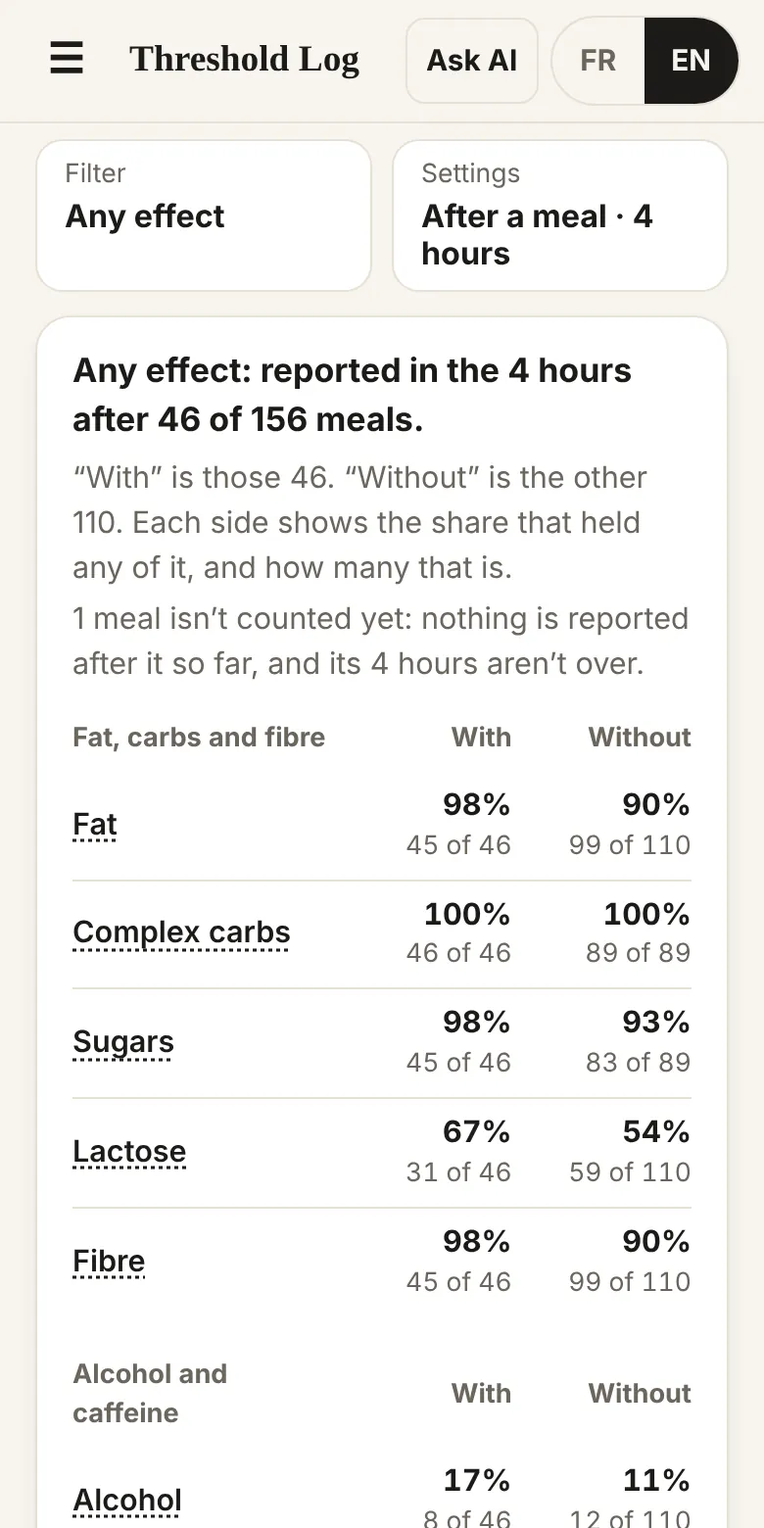
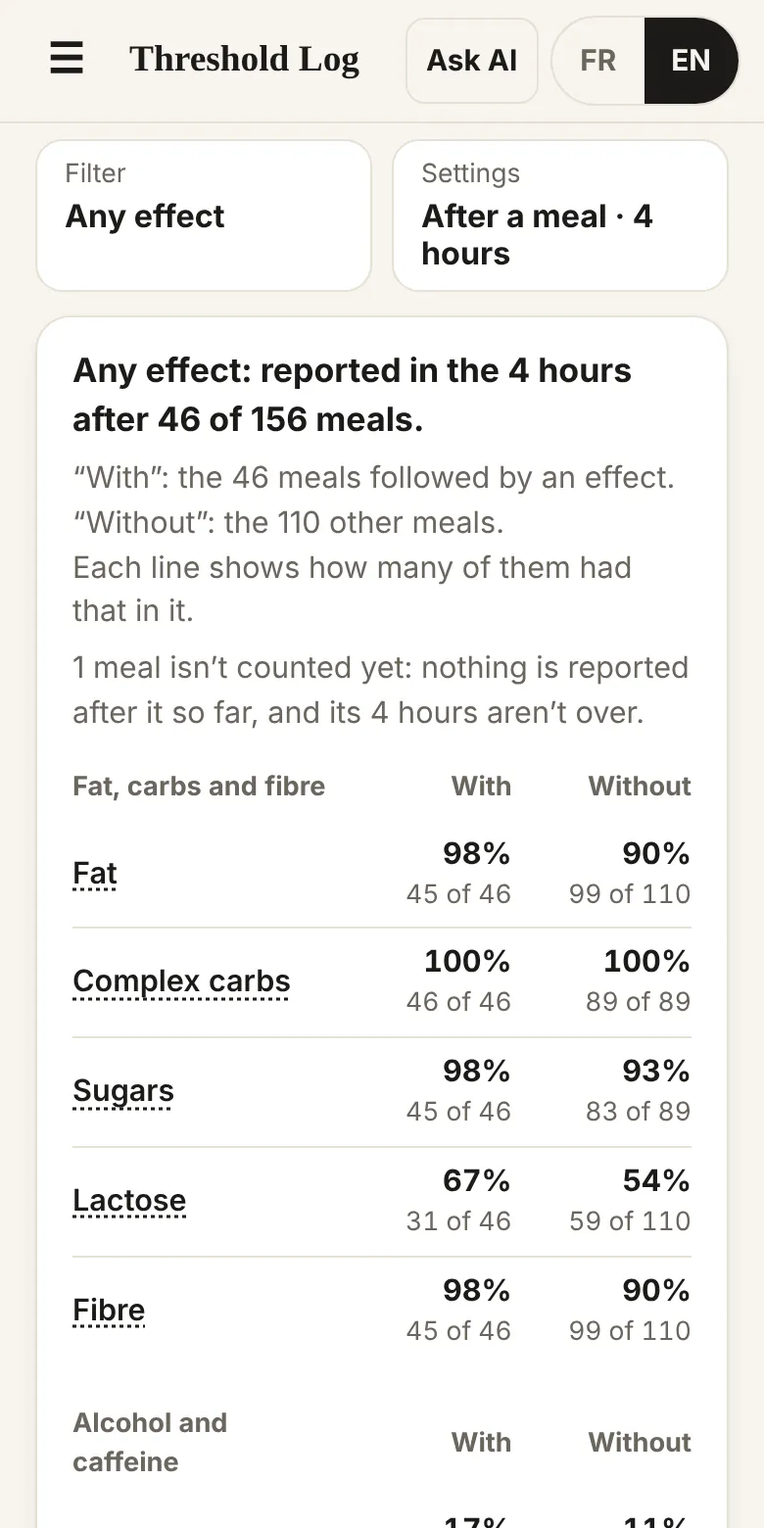
Threshold Log 0.3.8: say plainly what "With" and "Without" are
The line under the Threshold heading read "“With” is those 1. “Without” is
the other 2. Each side shows the share that held any of it, and how many
that is." It was hard to follow, most of all with one or two meals.

It is now three short lines, in the heading's own numbers:

  “With”: the one meal followed by an effect.
  “Without”: the 2 other meals.
  Each line shows how many of them had that in it.

None, one and several are each said in words; one effect picked, several
(all of them, or one of them) and "Over a day" have their own wording, in
English and French. Help and the app's page say it the same way. The two
pictures of the lists on the app's page are retaken.

Claude-Session: https://claude.ai/code/session_0165oQGZXNu1ULEJPAkewgjN

Changed region(s): [[0.0923, 0.3077, 0.9231, 1.0], [0.0923, 0.8923, 0.3077, 1.0]]

diff --git a/threshold/app/index.html b/threshold/app/index.html
@@ -690,7 +690,7 @@ return {H,WIN,WINS,STEPS,MANY,groups,BUCKETS,COMPS,FAMS,TAGS,line,table,together
 if(typeof module!=='undefined') module.exports=TLE;
 /* ENGINE:END */
 /* ===================== APP: the screens. Data in, data out: the app reports what was entered and never interprets it. ===================== */
-const VER='0.3.7', CONSENT=1, KEY='v3k.threshold.v1', GUTKEYS=['v3k.gut.v1','v3k.gut.fr.v1'];   /* the Food Trial Log keeps its English and its French copy apart */
+const VER='0.3.8', CONSENT=1, KEY='v3k.threshold.v1', GUTKEYS=['v3k.gut.v1','v3k.gut.fr.v1'];   /* the Food Trial Log keeps its English and its French copy apart */
 const E=TLE, H=36e5;
 const FRAMED=(()=>{ try{ return window.self!==window.top; }catch(e){ return true; } })();
 const STANDALONE=(()=>{ try{ return !!(navigator.standalone||matchMedia('(display-mode: standalone)').matches); }catch(e){ return false; } })();
@@ -1001,6 +1001,14 @@ function tqRows(){ const q=(UI.tq||'').trim(), I=IX(), n=foodDays(I);
 const hrsWord=h=>L(h===1?'1 hour':h+' hours',h===1?'1 heure':h+' heures');
 const hrsAfter=h=>L(h===1?'the hour after it':`the ${h} hours after it`,h===1?'l’heure suivante':`les ${h} heures suivantes`);
 function twinHTML(h){ return `<div class="twin"><label class="small muted" for="tWin">${L('The amount in one meal, and the effects you reported in','La quantité dans un repas, et les effets que tu as notés dans')} <b id="tWinTxt">${hrsAfter(h)}</b>.</label><input type="range" id="tWin" data-in="twin" min="1" max="8" step="1" value="${h}" aria-valuetext="${hrsWord(h)}"><div class="ends" aria-hidden="true">${E.WINS.map(x=>`<span>${x}</span>`).join('')}</div></div>`; }
+/* what the two columns are, in the person's own numbers: "With": the one meal followed by an effect. "Without": the 2 other meals. */
+function sidesTxt(mode,nHit,nRest,nsel,all){ const day=mode==='day', any=nsel>1&&!all;
+  const fxE=any?'one of the effects picked':nsel>1?'the effects picked':nsel?'the effect picked':'an effect', fxF=any?'d’un des effets choisis':nsel>1?'des effets choisis':nsel?'de l’effet choisi':'d’un effet', fxFd=any?'un des effets choisis':nsel>1?'les effets choisis':nsel?'l’effet choisi':'un effet';
+  const wE=day?(nHit===0?'no day':nHit===1?'the one day':`the ${nHit} days`)+' with '+fxE:(nHit===0?'no meal':nHit===1?'the one meal':`the ${nHit} meals`)+' followed by '+fxE;
+  const oE=day?(nRest===0?'no other day':nRest===1?'the one other day':`the ${nRest} other days`):(nRest===0?'no other meal':nRest===1?'the one other meal':`the ${nRest} other meals`);
+  const wF=day?(nHit===0?'aucune journée':nHit===1?'la journée':`les ${nHit} journées`)+' avec '+fxFd:(nHit===0?'aucun repas suivi ':nHit===1?'le repas suivi ':`les ${nHit} repas suivis `)+fxF;
+  const oF=day?(nRest===0?'aucune autre journée':nRest===1?'l’autre journée':`les ${nRest} autres journées`):(nRest===0?'aucun autre repas':nRest===1?'l’autre repas':`les ${nRest} autres repas`);
+  return L(`“With”: ${wE}.<br>“Without”: ${oE}.<br>Each line shows how many of them had that in it.`,`« Avec » : ${wF}.<br>« Sans » : ${oF}.<br>Chaque ligne montre combien ${day?'d’entre elles':'d’entre eux'} en contenaient.`); }
 function vThr(){ const mode=S.tmode, h=thrH(), I=IX(), h1=h===1, hE=h1?'the hour':`the ${h} hours`, hF=h1?'l’heure':`les ${h} heures`, rd=E.reportedDays(I), seen=fxSeen(I), sel=selOf().filter(c=>seen.indexOf(c)>=0); S.tsel=sel;
   const all=sel.length>1&&S.tall!==false;
   const T=E.table(I,mode,sel,all), base=T[0].rows[0], nHit=base.hit.n, nRest=base.rest.n, n=nHit+nRest, G=E.together(I,mode,sel,all), nm=cap(selName(sel,all)), Wt=E.waiting(I,mode,sel,all), wn=[], o=Wt.open;
@@ -1023,7 +1031,7 @@ function vThr(){ const mode=S.tmode, h=thrH(), I=IX(), h1=h===1, hE=h1?'the hour
     :L(`${nm}: reported in ${hE} after ${nHit} of ${n} ${n===1?'meal':'meals'}.`,`${nm} : noté dans ${hF} après ${nHit} repas sur ${n}.`);
   return `<div class="thrbar" id="thrBar"><button type="button" class="tbb" data-act="tfilter"><small>${L('Filter','Filtre')}</small><b>${esc(nm)}</b></button><button type="button" class="tbb" data-act="tset"><small>${L('Settings','Réglages')}</small><b>${mode==='day'?L('Over a day','Sur une journée'):L('After a meal','Après un repas')+' · '+hrsWord(h)}</b></button></div>
   <div class="card" id="thrCard">${n?`<p style="margin:0 0 4px" id="thrHead"><b>${esc(head)}</b></p>
-  <p class="small muted" style="margin:0 0 4px">${L(`“With” is those ${nHit}. “Without” is the other ${nRest}. Each side shows the share that held any of it, and how many that is.`,`« Avec », ce sont ces ${nHit}. « Sans », ce sont les ${nRest} autres. Chaque côté montre la part qui en contenait, et combien ça fait.`)}</p>${waitHTML}${T.map(fam).join('')}${goneHTML}${tog}`
+  <p class="small muted" id="thrSides" style="margin:0 0 6px">${sidesTxt(mode,nHit,nRest,sel.length,all)}</p>${waitHTML}${T.map(fam).join('')}${goneHTML}${tog}`
     :wn.length?`<p style="margin:0 0 4px"><b>${L('Nothing counted yet.','Rien de compté pour l’instant.')}</b></p>${waitHTML}`:`<p class="small" style="margin:0 0 4px">${L('Nothing to show yet. The lists are made from complete days: a meal, and either an effect or a tap on “No effects today”.','Rien à montrer pour l’instant. Les listes sont faites à partir des journées complètes : un repas, et soit un effet, soit un appui sur « Aucun effet aujourd’hui ».')}</p>${waitHTML}`}
   <p class="mine">${n?L('Tap a line for every amount.','Appuie sur une ligne pour voir chaque quantité.')+' ':''}${MINE()}</p></div>
   <h3 style="margin-top:18px">${L('One food','Un aliment')}</h3>
@@ -1268,7 +1276,7 @@ function helpSheet(){ const H2=(en,fr,ten,tfr)=>`<p class="small"><b>${L(en,fr)}
   +H2('The ring.','L’anneau.','Under Nutrition. What you reported eating in the period, by weight, as a day on average: fat, protein, complex carbs, lactose, other sugars and fibre. The key under it has the grams, and the middle has their total. Alcohol, caffeine and the other compounds are in the card below it, as totals for the period. “Carbs, kind not listed” are the carbs of foods whose sugars Health Canada doesn’t list.','Dans l’onglet Nutrition. Ce que tu as noté avoir mangé pendant la période, selon le poids, pour une journée en moyenne\u00a0: gras, protéines, glucides complexes, lactose, autres sucres et fibres. La légende en dessous donne les grammes, et le milieu donne leur total. L’alcool, la caféine et les autres composés sont dans la carte en dessous, en totaux pour la période. Les «\u00a0glucides, sorte non indiquée\u00a0» sont les glucides des aliments dont Santé Canada n’indique pas les sucres.')
   +H2('Histamine, estimated.','Histamine, estimée.','One of the other compounds. It’s the weight of each serving times the average for its food type in a 2011 European table. The amount in your own piece can be many times more or less: one kind of cheese has measured from under 5 to over 1,000 mg per kg. Read it as a count of histamine food.','Un des autres composés. C’est le poids de chaque portion multiplié par la moyenne de son type d’aliment dans un tableau européen de 2011. La quantité dans ton propre morceau peut être plusieurs fois plus grande ou plus petite\u00a0: une même sorte de fromage a déjà mesuré de moins de 5 à plus de 1\u00a0000 mg par kg. Lis-le comme un compte d’aliments à histamine.')
   +H2('Other compounds.','Autres composés.','What your food carried beyond the ring, in five families: amines, plant compounds, fermentable sugars, added, and other. Milligrams where a source gives a figure, marked ≈ when it is an estimate. Portions where it doesn’t. Tap a name for what it is, how the body clears it and where the figure comes from. A food added from its label carries what you tick on its form.','Ce que tes aliments contenaient en plus de l’anneau, en cinq familles : amines, composés végétaux, sucres fermentescibles, ajoutés, et autres. En milligrammes quand une source donne un chiffre, avec ≈ quand c’est une estimation. En portions sinon. Appuie sur un nom pour savoir ce que c’est, comment le corps l’élimine et d’où vient le chiffre. Un aliment ajouté selon son étiquette contient ce que tu coches dans son formulaire.')
-  +H2('The Threshold lists.','Les listes de seuil.','Under Filter, pick an effect, or leave it on “Any effect”. Pick several and choose how they combine: all of them together, or any of them. Your picks are kept. “With” is the meals or days it was reported for. “Without” is all the others. Each side shows the share that held any of it, and how many that is. Nothing is averaged. Tap a line for every amount, with how many meals or days sat on each side. A meal joins the lists as soon as an effect is reported after it, or once its hours are over with none. A day joins once the day after it is over, so the next day’s effects are all in. Under Settings, choose the reading. “After a meal” reads one meal and the hours after it: the slider sets how many, from 1 to 8, and it starts at 4. An effect picked alone keeps its own hours. One effect can fall in the hours after two meals, and then it counts for both. “Over a day” reads the total for a day with that day, that night and the next day. Poor sleep counts for the night before the morning you report it.','Dans Filtre, choisis un effet, ou reste sur « Tout effet ». Choisis-en plusieurs et décide comment ils se combinent : tous ensemble, ou n’importe lequel. Tes choix sont gardés. « Avec », ce sont les repas ou les jours pour lesquels il a été noté. « Sans », ce sont tous les autres. Chaque côté montre la part qui en contenait, et combien ça fait. Aucune moyenne n’est faite. Appuie sur une ligne pour voir chaque quantité, avec le nombre de repas ou de jours de chaque côté. Un repas entre dans les listes dès qu’un effet est noté après, ou quand ses heures sont terminées sans effet. Une journée y entre quand le lendemain est terminé, pour que les effets du lendemain y soient tous. Dans Réglages, choisis la lecture. « Après un repas » lit un repas et les heures suivantes : le curseur règle combien, de 1 à 8, et il commence à 4. Un effet choisi seul garde ses propres heures. Un même effet peut tomber dans les heures qui suivent deux repas, et il compte alors pour les deux. « Sur une journée » lit le total d’une journée avec ce jour-là, cette nuit-là et le lendemain. Un mauvais sommeil compte pour la nuit qui précède le matin où tu le notes.')
+  +H2('The Threshold lists.','Les listes de seuil.','Under Filter, pick an effect, or leave it on “Any effect”. Pick several and choose how they combine: all of them together, or any of them. Your picks are kept. “With” is the meals or days it was reported for. “Without” is all the others. Each line shows how many of them had that in it, and the share that is. Nothing is averaged. Tap a line for every amount, with how many meals or days sat on each side. A meal joins the lists as soon as an effect is reported after it, or once its hours are over with none. A day joins once the day after it is over, so the next day’s effects are all in. Under Settings, choose the reading. “After a meal” reads one meal and the hours after it: the slider sets how many, from 1 to 8, and it starts at 4. An effect picked alone keeps its own hours. One effect can fall in the hours after two meals, and then it counts for both. “Over a day” reads the total for a day with that day, that night and the next day. Poor sleep counts for the night before the morning you report it.','Dans Filtre, choisis un effet, ou reste sur « Tout effet ». Choisis-en plusieurs et décide comment ils se combinent : tous ensemble, ou n’importe lequel. Tes choix sont gardés. « Avec », ce sont les repas ou les jours pour lesquels il a été noté. « Sans », ce sont tous les autres. Chaque ligne montre combien en contenaient, et la part que ça fait. Aucune moyenne n’est faite. Appuie sur une ligne pour voir chaque quantité, avec le nombre de repas ou de jours de chaque côté. Un repas entre dans les listes dès qu’un effet est noté après, ou quand ses heures sont terminées sans effet. Une journée y entre quand le lendemain est terminé, pour que les effets du lendemain y soient tous. Dans Réglages, choisis la lecture. « Après un repas » lit un repas et les heures suivantes : le curseur règle combien, de 1 à 8, et il commence à 4. Un effet choisi seul garde ses propres heures. Un même effet peut tomber dans les heures qui suivent deux repas, et il compte alors pour les deux. « Sur une journée » lit le total d’une journée avec ce jour-là, cette nuit-là et le lendemain. Un mauvais sommeil compte pour la nuit qui précède le matin où tu le notes.')
   +H2('Luck.','Le hasard.','The app puts no number on luck. A split between “With” and “Without” can come from luck alone. Luck has more room when there are few entries, when several things are eaten together, and when meals are closer together than the hours set on the slider. It has less room with more entries, with one thing changed at a time, and with meals further apart than the hours set. The same words sit under every opened line.','L’app ne met aucun chiffre sur le hasard. Un écart entre « Avec » et « Sans » peut venir du seul hasard. Le hasard a plus de place quand il y a peu d’entrées, quand plusieurs choses sont mangées ensemble et quand les repas sont plus rapprochés que les heures réglées sur le curseur. Il a moins de place avec plus d’entrées, avec une seule chose changée à la fois et avec des repas plus espacés que les heures réglées. Les mêmes mots se trouvent sous chaque ligne ouverte.')
   +H2('What the lists can’t tell apart.','Ce que les listes ne peuvent pas départager.','Things eaten together. If your high-fat meals were also your aged-cheese meals, both lines show the same split. Histamine and tyramine sit in the same foods, and so do gluten and fructans, so their lines move together. “Eaten together” counts the meals or days with 3 or more portions of aged or fermented foods, those with alcohol beside one, and those that held 5 compounds or more: alcohol, caffeine, histamine food and each of the other compounds count once. And what you expect can shape what you feel and report.','Les choses mangées ensemble. Si tes repas riches en gras étaient aussi tes repas de fromage vieilli, les deux lignes montrent le même écart. L’histamine et la tyramine sont dans les mêmes aliments, le gluten et les fructanes aussi, alors leurs lignes bougent ensemble. « Mangés ensemble » compte les repas ou les jours avec 3 portions ou plus d’aliments vieillis ou fermentés, ceux avec de l’alcool et un de ces aliments, et ceux qui contenaient 5 composés ou plus : l’alcool, la caféine, les aliments à histamine et chacun des autres composés comptent une fois. Et ce à quoi tu t’attends peut influencer ce que tu ressens et ce que tu notes.')
   +H2('One food.','Un aliment.','On the Threshold tab, look up a food to see what you reported on the days you ate it, by the amount eaten that day, and on the days without it. Both are read over the same span: that day, that night and the next day.','Dans l’onglet Seuil, cherche un aliment pour voir ce que tu as noté les jours où tu en as mangé, selon la quantité mangée ce jour-là, et les jours sans cet aliment. Les deux sont lus sur la même durée : ce jour-là, cette nuit-là et le lendemain.')

diff --git a/tests/threshold/screens.test.js b/tests/threshold/screens.test.js
@@ -245,7 +245,14 @@ async function open(browser, base, o) {
       same(T + 'the setting is saved when the thumb is let go, not before', [heldSaved === undefined || heldSaved === 4, await saved()], [true, 8]);
       await page.focus('#tWin'); await page.keyboard.press('ArrowLeft'); same(T + 'an arrow key moves it one hour, and the focus stays on it', [await page.inputValue('#tWin'), (await meals())[0], await page.evaluate(() => document.activeElement.id), await saved()], ['7', 7, 'tWin', 7]);
       await page.reload(); await page.waitForSelector('.mb.meal'); await page.click('[data-act=tab][data-v=thr]'); await setOpen(page); same(T + 'the setting is still there when the app is opened again', [await page.inputValue('#tWin'), (await meals())[0]], ['7', 7]); await sheetShut(page);
-      ok(T + 'under the lists’ heading, one line says what each side shows', (await page.locator('#thrCard').innerText()).includes(fr ? 'Chaque côté montre la part qui en contenait, et combien ça fait.' : 'Each side shows the share that held any of it, and how many that is.'));
+      { // under the heading, three plain lines: what "With" is, what "Without" is, what a line shows, each in the numbers of the heading above them
+        const m = await meals(), flat = t => t.replace(/[\u00a0\u202f]/g, ' '), lines = flat(await page.locator('#thrSides').innerText()).split('\n').map(x => x.trim()).filter(Boolean);
+        same(T + 'under the lists’ heading, three lines say what “With” is, what “Without” is and what a line shows, in the heading’s own numbers', lines, fr ? [`« Avec » : les ${m[1]} repas suivis d’un effet.`, `« Sans » : les ${m[2] - m[1]} autres repas.`, 'Chaque ligne montre combien d’entre eux en contenaient.'] : [`“With”: the ${m[1]} meals followed by an effect.`, `“Without”: the ${m[2] - m[1]} other meals.`, 'Each line shows how many of them had that in it.']);
+        const say = (...a) => page.evaluate(a => sidesTxt(...a).replace(/[\u00a0\u202f]/g, ' ').split('<br>'), a);
+        same(T + 'one meal on a side is “the one meal”, never “those 1”', (await say('meal', 1, 2, 0)).slice(0, 2), fr ? ['« Avec » : le repas suivi d’un effet.', '« Sans » : les 2 autres repas.'] : ['“With”: the one meal followed by an effect.', '“Without”: the 2 other meals.']);
+        same(T + 'no meal on a side is said in words', (await say('meal', 0, 1, 1)).slice(0, 2), fr ? ['« Avec » : aucun repas suivi de l’effet choisi.', '« Sans » : l’autre repas.'] : ['“With”: no meal followed by the effect picked.', '“Without”: the one other meal.']);
+        same(T + 'two effects picked: all of them, or one of them, as the filter is set', [(await say('meal', 3, 0, 2, true))[0], (await say('meal', 3, 0, 2, false))[0], (await say('meal', 3, 0, 2, true))[1]], fr ? ['« Avec » : les 3 repas suivis des effets choisis.', '« Avec » : les 3 repas suivis d’un des effets choisis.', '« Sans » : aucun autre repas.'] : ['“With”: the 3 meals followed by the effects picked.', '“With”: the 3 meals followed by one of the effects picked.', '“Without”: no other meal.']);
+        same(T + 'over a day the same lines speak of days', await say('day', 1, 12, 1), fr ? ['« Avec » : la journée avec l’effet choisi.', '« Sans » : les 12 autres journées.', 'Chaque ligne montre combien d’entre elles en contenaient.'] : ['“With”: the one day with the effect picked.', '“Without”: the 12 other days.', 'Each line shows how many of them had that in it.']); }
       await page.click('#app [data-act=rowsheet][data-k=fat]'); await page.locator('#sheet [data-act=rstep]').last().click(); const sheet = (await page.locator('#sheet').innerText()).replace(/[\u00a0\u202f]/g, ' ');
       ok(T + 'an opened line says the hours it was read at', sheet.includes(fr ? 'effets notés dans les 7 heures suivantes.' : 'effects reported in the 7 hours after it.'), sheet.slice(0, 200));
       ok(T + 'it puts no number on luck, and says what leaves luck more room and what leaves it less', !/luck alone|hasard seul|times? in \d|fois sur \d/i.test(sheet) && sheet.includes(fr ? 'Plus de place pour le hasard : peu d’entrées, plusieurs choses mangées ensemble, des repas plus rapprochés que les heures réglées. Moins de place : plus d’entrées, une seule chose changée à la fois, des repas plus espacés que les heures réglées.' : 'More room for luck: few entries, several things eaten together, meals closer together than the hours set. Less room: more entries, one thing changed at a time, meals further apart than the hours set.'), sheet.slice(-420));

diff --git a/threshold/index.html b/threshold/index.html
@@ -103,7 +103,7 @@ section{padding:42px 0;border-top:1px solid var(--line)}
     <div class="cards two">
       <div class="card"><h3>Report a meal.</h3><ul><li>Pick the foods and the portions, in halves.</li><li>The app carries 208 foods and drinks, water included, most with Health Canada’s numbers.</li><li>A food that isn’t there goes in from its label.</li></ul></div>
       <div class="card"><h3>Report an effect.</h3><ul><li>Physical or psychological, with its time. One tap each.</li><li>Gut discomfort, headache, joint pain, poor sleep, low energy, or your own words.</li><li>On a day with none, tap <b>No effects today</b>.</li></ul></div>
-      <div class="card"><h3>Read the lists.</h3><ul><li>Pick an effect, or leave it on any effect.</li><li>Two columns: the meals or days it was reported for, and all the others. Each line shows the share that held any of it, and how many that is. Nothing is averaged.</li><li>After a meal, for as many hours as you set, from 1 to 8. Or over a day. An effect read alone keeps its own hours.</li></ul></div>
+      <div class="card"><h3>Read the lists.</h3><ul><li>Pick an effect, or leave it on any effect.</li><li>Two columns: the meals or days it was reported for, and all the others. Each line shows how many of them had that in it, and the share that is. Nothing is averaged.</li><li>After a meal, for as many hours as you set, from 1 to 8. Or over a day. An effect read alone keeps its own hours.</li></ul></div>
       <div class="card"><h3>You draw the conclusion.</h3><ul><li>The app counts. It doesn’t say what a count means.</li><li>It doesn’t tell you what to eat.</li><li>Every reading carries the same line: your own report, not advice.</li></ul></div>
     </div>
   </section>
@@ -213,7 +213,7 @@ section{padding:42px 0;border-top:1px solid var(--line)}
     <div class="cards two">
       <div class="card"><h3>Note un repas.</h3><ul><li>Choisis les aliments et les portions, par demies.</li><li>L’app contient 208 aliments et boissons, l’eau comprise, la plupart avec les chiffres de Santé Canada.</li><li>Un aliment qui n’y est pas s’ajoute selon son étiquette.</li></ul></div>
       <div class="card"><h3>Note un effet.</h3><ul><li>Physique ou psychologique, avec son heure. Un appui chacun.</li><li>Inconfort au ventre, mal de tête, douleur aux articulations, mauvais sommeil, peu d’énergie, ou tes propres mots.</li><li>Une journée sans effet, appuie sur <b>Aucun effet aujourd’hui</b>.</li></ul></div>
-      <div class="card"><h3>Lis les listes.</h3><ul><li>Choisis un effet, ou reste sur tout effet.</li><li>Deux colonnes&nbsp;: les repas ou les jours pour lesquels il a été noté, et tous les autres. Chaque ligne montre la part qui en contenait, et combien ça fait. Aucune moyenne n’est faite.</li><li>Après un repas, pendant le nombre d’heures que tu règles, de 1 à 8. Ou sur une journée. Un effet lu seul garde ses propres heures.</li></ul></div>
+      <div class="card"><h3>Lis les listes.</h3><ul><li>Choisis un effet, ou reste sur tout effet.</li><li>Deux colonnes&nbsp;: les repas ou les jours pour lesquels il a été noté, et tous les autres. Chaque ligne montre combien en contenaient, et la part que ça fait. Aucune moyenne n’est faite.</li><li>Après un repas, pendant le nombre d’heures que tu règles, de 1 à 8. Ou sur une journée. Un effet lu seul garde ses propres heures.</li></ul></div>
       <div class="card"><h3>C’est toi qui conclus.</h3><ul><li>L’app compte. Elle ne dit pas ce qu’un compte veut dire.</li><li>Elle ne te dit pas quoi manger.</li><li>Chaque relevé porte la même ligne&nbsp;: ton propre relevé, pas un conseil.</li></ul></div>
     </div>
   </section>

diff --git a/threshold/app/sw.js b/threshold/app/sw.js
@@ -1,7 +1,7 @@
 /* Threshold Log — offline cache. A new app version changes CACHE, so phones pick it up on the next open with a connection.
    Copyright (C) 2026  Tobie David · SPDX-License-Identifier: AGPL-3.0-or-later, with two terms under its section 7 (see the notice
    at the top of index.html) · https://github.com/tobiedavid/v3ktor.org */
-const CACHE='thresholdlog-0.3.7-57b3bbb9';
+const CACHE='thresholdlog-0.3.8-20a61ea0';
 const SHELL=['./','index.html','manifest.webmanifest','icons/icon-192.png','icons/icon-512.png','icons/maskable-512.png','icons/apple-touch-icon.png','icons/favicon-32.png'];
 self.addEventListener('install',e=>{ e.waitUntil(caches.open(CACHE).then(c=>c.addAll(SHELL)).then(()=>self.skipWaiting())); });
 self.addEventListener('activate',e=>{ e.waitUntil(caches.keys().then(ks=>Promise.all(ks.filter(k=>k.startsWith('thresholdlog-')&&k!==CACHE).map(k=>caches.delete(k)))).then(()=>self.clients.claim())); });

diff --git a/tests/README.md b/tests/README.md
@@ -10,7 +10,7 @@
 | `apps/load.test.js` | Every page and app on the site loads, runs no script error, asks nothing of another site, and every link leads somewhere. | Playwright |
 | `gut/one-food.test.js` | In the Food Trial Log, a bad day takes one food off the list, and undoing the report puts it back. | Playwright |
 | `threshold/import.test.js` | The Threshold Log's import gives the same lists as the Food Trial Log's own screens, on five saved examples; from the browser, from a backup file, and from an old save. | Playwright |
-| `threshold/screens.test.js` | Every screen and sheet of the Threshold Log, in both languages, on a 320-pixel phone: the words it never uses, French punctuation, nothing off screen, the keyboard, offline, the door, a day turning over, a day with nothing but water, the ticks on the label form, unreadable saved data, and the web page. | Playwright |
+| `threshold/screens.test.js` | Every screen and sheet of the Threshold Log, in both languages, on a 320-pixel phone: the words it never uses, French punctuation, nothing off screen, the keyboard, offline, the door, a day turning over, a day with nothing but water, the ticks on the label form, the lines that say what “With” and “Without” are (one meal, none, several), unreadable saved data, and the web page. | Playwright |
 | `threshold/people.test.js` | Two made-up people use the Threshold Log for six weeks, one tap at a time. At the end every count on screen is checked against `threshold/oracle.js`, an independent recount that shares no code with the app. Every effect is opened, with the slider at 4 hours and at its two ends, and the meals listed before it are recounted. The Threshold lists are read off the screen line by line, for any effect and for one effect, with the slider at 4 hours and at its two ends, and checked the same way: each side's share and count on every line, and the "5 compounds or more" line. No screen may carry a luck number: the opened line and the sheet of one food are read for one. One of the two drinks water and flavoured sparkling water as entries of their own, and has a label food whose form has "A flavour" ticked. | Playwright |
 
 To run the screen tests on your own machine: `npm install --no-save playwright` and `npx playwright install chromium`, once.

diff --git a/threshold/README.md b/threshold/README.md
@@ -58,7 +58,7 @@ The app puts no number on luck. Version 0.2 gave Fisher's exact test for one tap
 
 Since 0.3.7 the tab holds the lists and two buttons. **Filter** picks the effects the lists are read for; the picks are kept. **Settings** holds the reading ("After a meal" or "Over a day") and, for "After a meal", the slider.
 
-Each line shows, for each side, the share of its meals or days that held any of it, and how many that is: "67%, 31 of 46". The rows no longer show the lowest and highest amount: on made-up people those ranges sat inside each other on almost every line. Every amount is still one tap away, in the opened line. Nothing is averaged and nothing is ranked.
+Each line shows, for each side, how many of its meals or days had that in it, and the share that is: "67%, 31 of 46". Since 0.3.8 three short lines under the heading say what the sides are in the person's own numbers: "With: the one meal followed by an effect. Without: the 2 other meals. Each line shows how many of them had that in it." The earlier wording ("With is those 1") was hard to read. The rows no longer show the lowest and highest amount: on made-up people those ranges sat inside each other on almost every line. Every amount is still one tap away, in the opened line. Nothing is averaged and nothing is ranked.
 
 An effect read alone keeps its own hours. Any effect, or several together, use the general hours. An effect opened from Home is read with the same hours the lists use for it.
 
